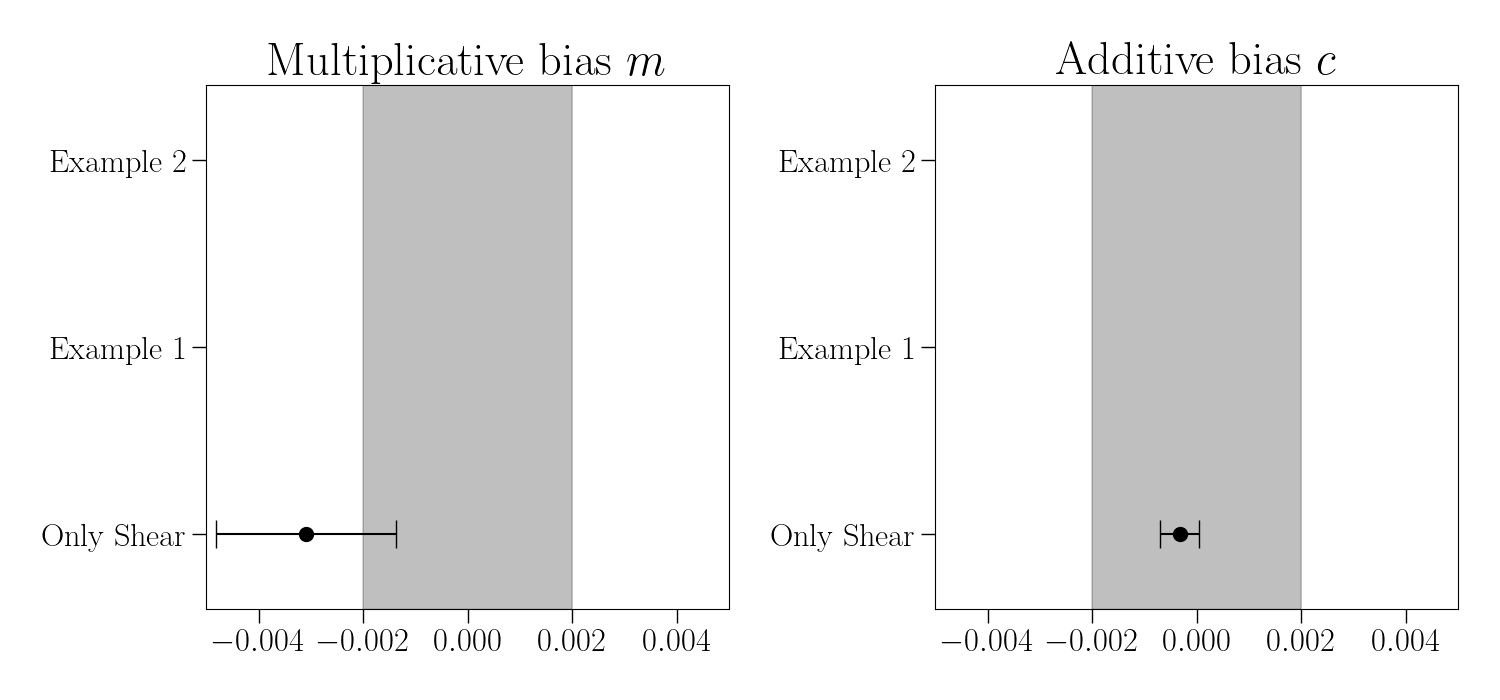
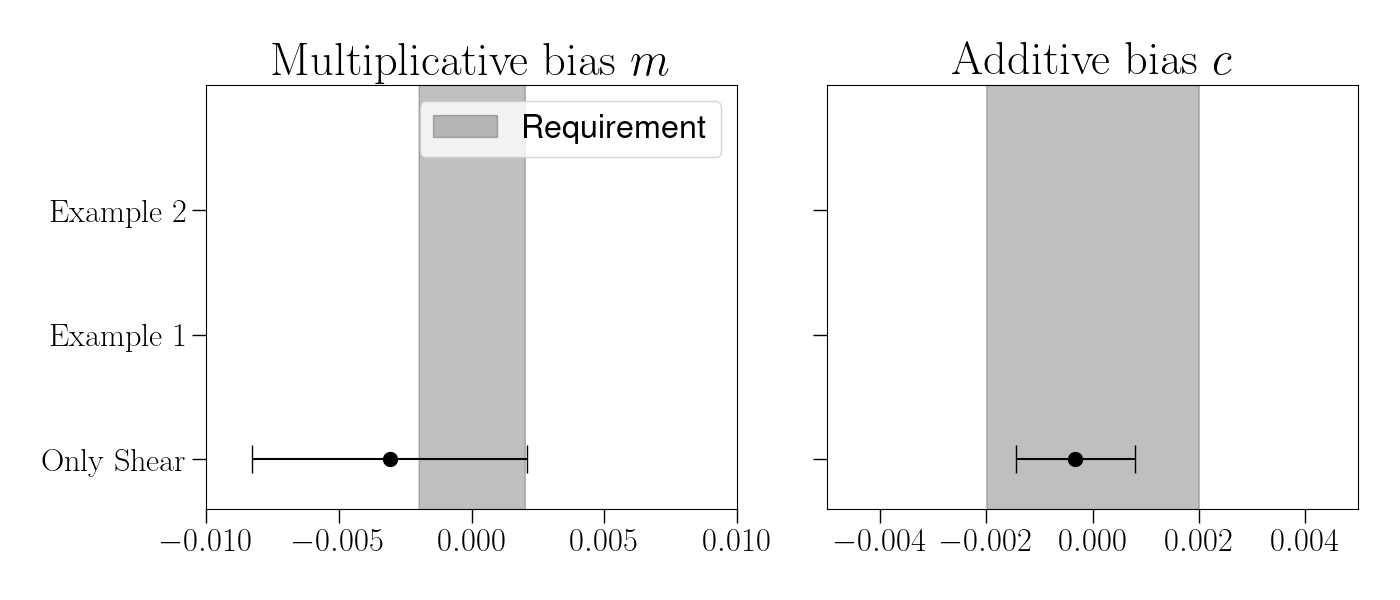
bias figure improvements

diff --git a/scripts/get_paper_figures.py b/scripts/get_paper_figures.py
@@ -138,7 +138,7 @@ def make_contour_hyper_figure(fpath: str | Path):
     fig.savefig(fpath, format="png")
 
 
-def make_multiplicative_bias_figure(fpath: str | Path):
+def make_bias_figure(fpath: str | Path):
     jack_ds1 = load_dataset(INPUT_PATHS["shear_jack_1"])
     g_plus_jack = jack_ds1["g_plus"]
     g_minus_jack = jack_ds1["g_minus"]
@@ -147,26 +147,24 @@ def make_multiplicative_bias_figure(fpath: str | Path):
         g_plus_jack, g_minus_jack, g1_true=0.02
     )
 
-    fig, (ax1, ax2) = plt.subplots(1, 2, figsize=(15, 7))
+    fig, (ax1, ax2) = plt.subplots(1, 2, figsize=(14, 6), sharey=True)
 
     # multiplicative bias
-    ax1.errorbar(x=m_mean, y=0, xerr=m_std, color="k", fmt="-o", capsize=10.0)
+    ax1.errorbar(x=m_mean, y=0, xerr=m_std * 3, color="k", fmt="-o", capsize=10.0)
 
     ax1.set_yticks([0.0, 0.25, 0.5])
     ax1.set_yticklabels([r"\rm Only Shear", r"\rm Example 1", r"\rm Example 2"])
-    ax1.set_ylim(-0.1, 0.6)
+    ax1.set_ylim(-0.1, 0.75)
     ax1.set_title(r"\rm Multiplicative bias $m$")
-    ax1.set_xlim(-0.005, 0.005)
+    ax1.set_xlim(-0.01, 0.01)
 
     area = np.linspace(-2e-3, 2e-3, 1000)
-    ax1.fill_between(area, y1=-0.1, y2=1.1, alpha=0.25, color="k")
+    ax1.fill_between(area, y1=-0.1, y2=1.1, alpha=0.25, color="k", label="Requirement")
+    ax1.legend()
 
     # additive bias
-    ax2.errorbar(x=c_mean, y=0, xerr=c_std, color="k", fmt="-o", capsize=10.0)
+    ax2.errorbar(x=c_mean, y=0, xerr=c_std * 3, color="k", fmt="-o", capsize=10.0)
 
-    ax2.set_yticks([0.0, 0.25, 0.5])
-    ax2.set_yticklabels([r"\rm Only Shear", r"\rm Example 1", r"\rm Example 2"])
-    ax2.set_ylim(-0.1, 0.6)
     ax2.set_title(r"\rm Additive bias $c$")
     ax2.set_xlim(-0.005, 0.005)
 
@@ -180,7 +178,7 @@ def main():
     make_timing_figure(OUT_PATHS["timing"])
     make_contour_shear_figure(OUT_PATHS["contour_shear"])
     make_contour_hyper_figure(OUT_PATHS["contour_hyper"])
-    make_multiplicative_bias_figure(OUT_PATHS["bias"])
+    make_bias_figure(OUT_PATHS["bias"])
 
 
 if __name__ == "__main__":
